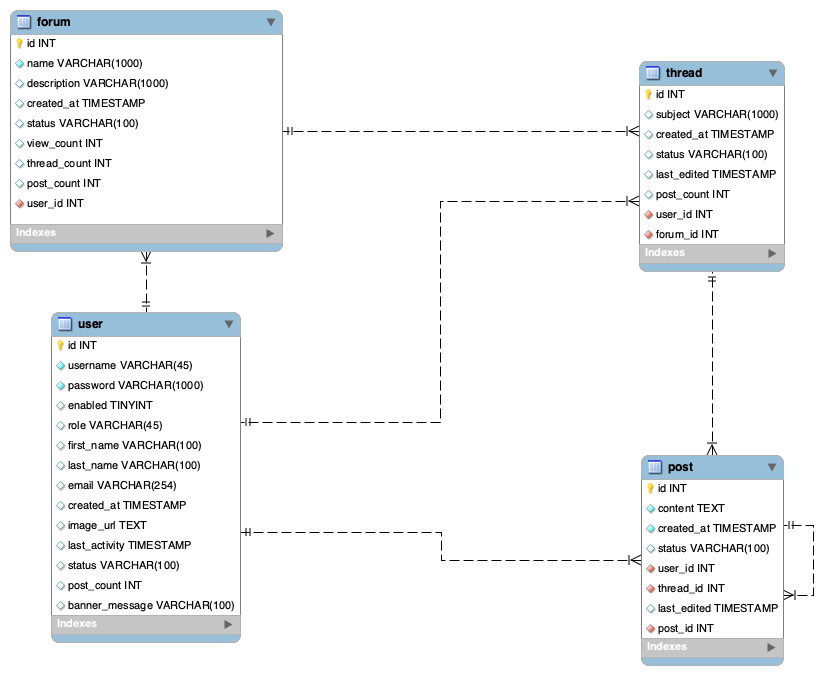
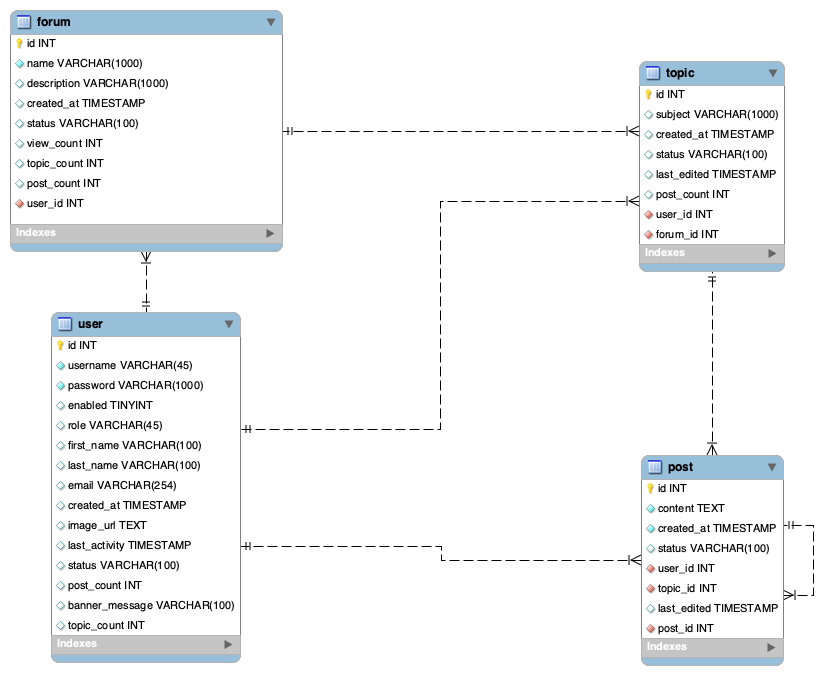
Remove Thread.java and replaced with Topic.java to avoid potential conflicts with Java Thread class, made changes in database and remaining entities to reflect this change as well as add a topic count column in user to track the amount of topics a user creates

diff --git a/JPALoreHunter/src/main/java/com/skilldistillery/lorehunter/entities/Forum.java b/JPALoreHunter/src/main/java/com/skilldistillery/lorehunter/entities/Forum.java
@@ -33,28 +33,28 @@ public class Forum {
 	private String status;
 	
 	@Column(name = "view_count")
-	private int viewCount;
+	private Integer viewCount;
 	
-	@Column(name = "thread_count")
-	private int threadCount;
+	@Column(name = "topic_count")
+	private Integer topicCount;
 	
 	@Column(name = "post_count")
-	private int postCount;
+	private Integer postCount;
 	
 	@ManyToOne
 	@JoinColumn(name = "user_id")
 	private User user;
 	
 	@OneToMany(mappedBy = "forum")
-	private List<Thread> threads;
+	private List<Topic> topics;
 
 	public Forum() {
 		super();
 		// TODO Auto-generated constructor stub
 	}
 
-	public Forum(int id, String name, String description, LocalDateTime createdAt, String status, int viewCount,
-			int threadCount, int postCount, User user, List<Thread> threads) {
+	public Forum(int id, String name, String description, LocalDateTime createdAt, String status, Integer viewCount,
+			Integer topicCount, Integer postCount, User user, List<Topic> topics) {
 		super();
 		this.id = id;
 		this.name = name;
@@ -62,10 +62,10 @@ public class Forum {
 		this.createdAt = createdAt;
 		this.status = status;
 		this.viewCount = viewCount;
-		this.threadCount = threadCount;
+		this.topicCount = topicCount;
 		this.postCount = postCount;
 		this.user = user;
-		this.threads = threads;
+		this.topics = topics;
 	}
 
 	public int getId() {
@@ -108,27 +108,27 @@ public class Forum {
 		this.status = status;
 	}
 
-	public int getViewCount() {
+	public Integer getViewCount() {
 		return viewCount;
 	}
 
-	public void setViewCount(int viewCount) {
+	public void setViewCount(Integer viewCount) {
 		this.viewCount = viewCount;
 	}
 
-	public int getThreadCount() {
-		return threadCount;
+	public Integer getTopicCount() {
+		return topicCount;
 	}
 
-	public void setThreadCount(int threadCount) {
-		this.threadCount = threadCount;
+	public void setTopicCount(Integer topicCount) {
+		this.topicCount = topicCount;
 	}
 
-	public int getPostCount() {
+	public Integer getPostCount() {
 		return postCount;
 	}
 
-	public void setPostCount(int postCount) {
+	public void setPostCount(Integer postCount) {
 		this.postCount = postCount;
 	}
 
@@ -140,12 +140,12 @@ public class Forum {
 		this.user = user;
 	}
 
-	public List<Thread> getThreads() {
-		return threads;
+	public List<Topic> getTopics() {
+		return topics;
 	}
 
-	public void setThreads(List<Thread> threads) {
-		this.threads = threads;
+	public void setTopics(List<Topic> topics) {
+		this.topics = topics;
 	}
 
 	@Override
@@ -168,8 +168,9 @@ public class Forum {
 	@Override
 	public String toString() {
 		return "Forum [id=" + id + ", name=" + name + ", description=" + description + ", createdAt=" + createdAt
-				+ ", status=" + status + ", viewCount=" + viewCount + ", threadCount=" + threadCount + ", postCount="
-				+ postCount + ", user=" + user + ", threads=" + threads + "]";
+				+ ", status=" + status + ", viewCount=" + viewCount + ", topicCount=" + topicCount + ", postCount="
+				+ postCount + ", user=" + user + ", topics=" + topics + "]";
 	}
 
+	
 }

diff --git a/JPALoreHunter/src/main/java/com/skilldistillery/lorehunter/entities/User.java b/JPALoreHunter/src/main/java/com/skilldistillery/lorehunter/entities/User.java
@@ -58,10 +58,13 @@ public class User {
 	private List<Forum> forums;
 	
 	@OneToMany(mappedBy = "user")
-	private List<Thread> threads;
+	private List<Topic> topics;
 	
 	@OneToMany(mappedBy = "user")
 	private List<Post> posts;
+	
+	@Column(name = "topic_count")
+	private Integer topicCount;
 
 	public User() {
 		super();
@@ -69,8 +72,8 @@ public class User {
 
 	public User(int id, String username, String password, Boolean enabled, String role, String firstName,
 			String lastName, String email, LocalDateTime createdAt, String imageUrl, LocalDateTime lastActivity,
-			String status, int postCount, String bannerMessage, List<Forum> forums, List<Thread> threads,
-			List<Post> posts) {
+			String status, int postCount, String bannerMessage, List<Forum> forums, List<Topic> topics,
+			List<Post> posts, Integer topicCount) {
 		super();
 		this.id = id;
 		this.username = username;
@@ -87,8 +90,9 @@ public class User {
 		this.postCount = postCount;
 		this.bannerMessage = bannerMessage;
 		this.forums = forums;
-		this.threads = threads;
+		this.topics = topics;
 		this.posts = posts;
+		this.topicCount = topicCount;
 	}
 
 	public int getId() {
@@ -211,12 +215,12 @@ public class User {
 		this.forums = forums;
 	}
 
-	public List<Thread> getThreads() {
-		return threads;
+	public List<Topic> getTopics() {
+		return topics;
 	}
 
-	public void setThreads(List<Thread> threads) {
-		this.threads = threads;
+	public void setTopics(List<Topic> topics) {
+		this.topics = topics;
 	}
 
 	public List<Post> getPosts() {
@@ -225,6 +229,14 @@ public class User {
 
 	public void setPosts(List<Post> posts) {
 		this.posts = posts;
+	}
+
+	public Integer getTopicCount() {
+		return topicCount;
+	}
+
+	public void setTopicCount(Integer topicCount) {
+		this.topicCount = topicCount;
 	}
 
 	@Override
@@ -250,8 +262,9 @@ public class User {
 				+ ", role=" + role + ", firstName=" + firstName + ", lastName=" + lastName + ", email=" + email
 				+ ", createdAt=" + createdAt + ", imageUrl=" + imageUrl + ", lastActivity=" + lastActivity + ", status="
 				+ status + ", postCount=" + postCount + ", bannerMessage=" + bannerMessage + ", forums=" + forums
-				+ ", threads=" + threads + ", posts=" + posts + "]";
+				+ ", topics=" + topics + ", posts=" + posts + ", topicCount=" + topicCount + "]";
 	}
 
+	
 	
 }

diff --git a/JPALoreHunter/src/main/java/com/skilldistillery/lorehunter/entities/Topic.java b/JPALoreHunter/src/main/java/com/skilldistillery/lorehunter/entities/Topic.java
@@ -16,7 +16,7 @@ import javax.persistence.OneToMany;
 import org.hibernate.annotations.CreationTimestamp;
 
 @Entity
-public class Thread {
+public class Topic {
 	
 	@Id
 	@GeneratedValue(strategy = GenerationType.IDENTITY)
@@ -33,7 +33,7 @@ public class Thread {
 	@Column(name = "last_edited")
 	private LocalDateTime lastEdited;
 	
-	@Column(name = "postCount")
+	@Column(name = "post_count")
 	private int postCount;
 	
 	@ManyToOne
@@ -44,15 +44,15 @@ public class Thread {
 	@JoinColumn(name = "forum_id")
 	private Forum forum;
 	
-	@OneToMany(mappedBy = "thread")
+	@OneToMany(mappedBy = "topic")
 	private List<Post> posts;
 
-	public Thread() {
+	public Topic() {
 		super();
 		// TODO Auto-generated constructor stub
 	}
 
-	public Thread(int id, String subject, LocalDateTime createdAt, String status, LocalDateTime lastEdited,
+	public Topic(int id, String subject, LocalDateTime createdAt, String status, LocalDateTime lastEdited,
 			int postCount, User user, Forum forum, List<Post> posts) {
 		super();
 		this.id = id;
@@ -151,15 +151,17 @@ public class Thread {
 			return false;
 		if (getClass() != obj.getClass())
 			return false;
-		Thread other = (Thread) obj;
+		Topic other = (Topic) obj;
 		return id == other.id;
 	}
 
 	@Override
 	public String toString() {
-		return "Thread [id=" + id + ", subject=" + subject + ", createdAt=" + createdAt + ", status=" + status
+		return "Topic [id=" + id + ", subject=" + subject + ", createdAt=" + createdAt + ", status=" + status
 				+ ", lastEdited=" + lastEdited + ", postCount=" + postCount + ", user=" + user + ", forum=" + forum
 				+ ", posts=" + posts + "]";
 	}
+	
+	
 
 }

diff --git a/JPALoreHunter/src/main/java/com/skilldistillery/lorehunter/entities/Post.java b/JPALoreHunter/src/main/java/com/skilldistillery/lorehunter/entities/Post.java
@@ -39,16 +39,17 @@ public class Post {
 	private User user;
 	
 	@ManyToOne
-	@JoinColumn(name = "thread_id")
-	private Thread thread;
+	@JoinColumn(name = "topic_id")
+	private Topic topic;
+	
+	// parent/child mapping
 
 	public Post() {
 		super();
-		// TODO Auto-generated constructor stub
 	}
 
 	public Post(int id, String content, LocalDateTime createdAt, String status, LocalDateTime lastEdited, int postCount,
-			User user, Thread thread) {
+			User user, Topic topic) {
 		super();
 		this.id = id;
 		this.content = content;
@@ -57,7 +58,7 @@ public class Post {
 		this.lastEdited = lastEdited;
 		this.postCount = postCount;
 		this.user = user;
-		this.thread = thread;
+		this.topic = topic;
 	}
 
 	public int getId() {
@@ -116,12 +117,12 @@ public class Post {
 		this.user = user;
 	}
 
-	public Thread getThread() {
-		return thread;
+	public Topic getTopic() {
+		return topic;
 	}
 
-	public void setThread(Thread thread) {
-		this.thread = thread;
+	public void setTopic(Topic topic) {
+		this.topic = topic;
 	}
 
 	@Override
@@ -144,9 +145,9 @@ public class Post {
 	@Override
 	public String toString() {
 		return "Post [id=" + id + ", content=" + content + ", createdAt=" + createdAt + ", status=" + status
-				+ ", lastEdited=" + lastEdited + ", postCount=" + postCount + ", user=" + user + ", thread=" + thread
+				+ ", lastEdited=" + lastEdited + ", postCount=" + postCount + ", user=" + user + ", topic=" + topic
 				+ "]";
 	}
-	
+
 	
 }
